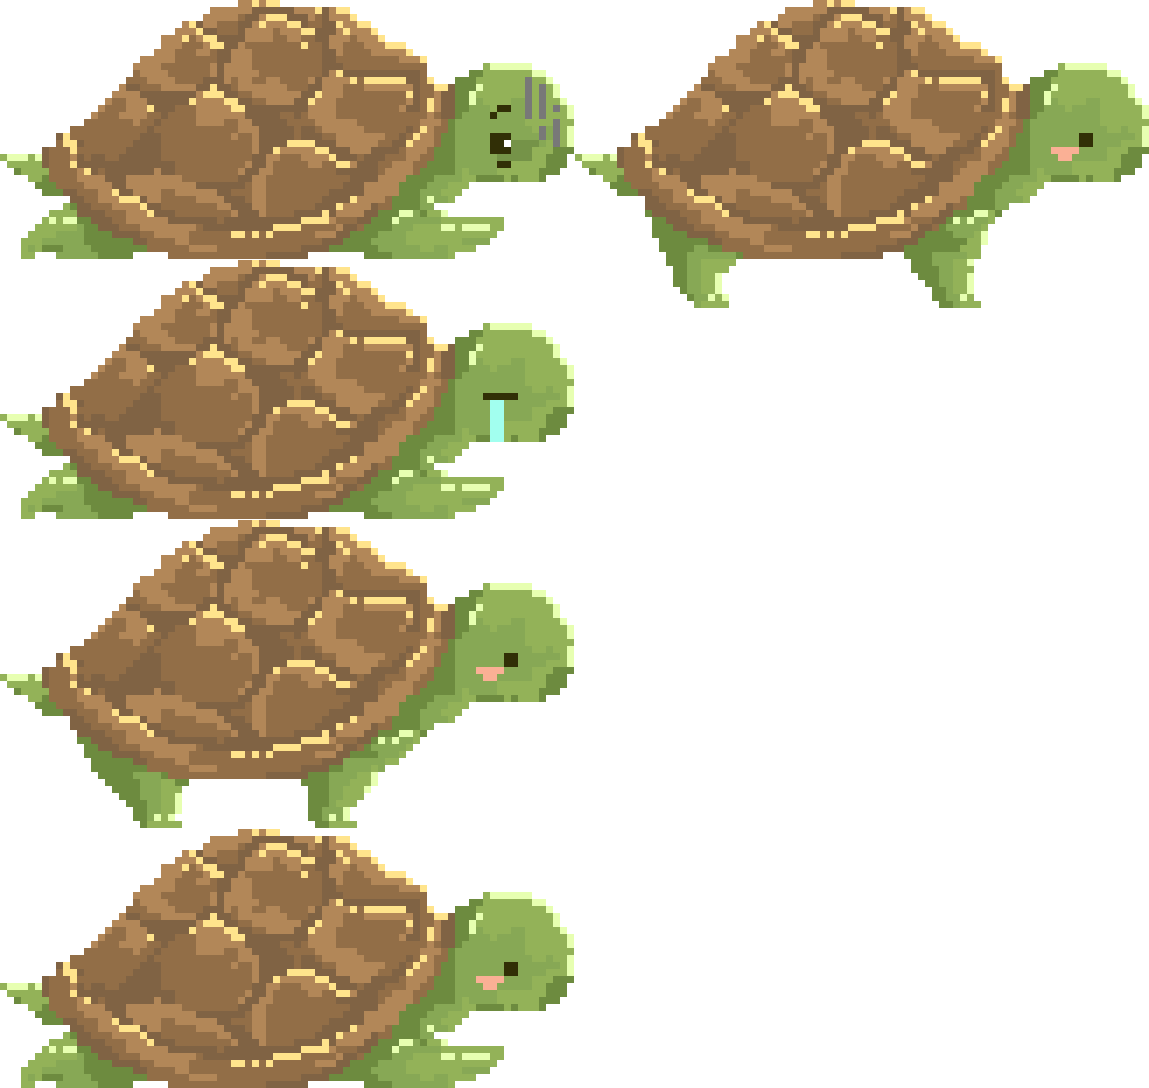
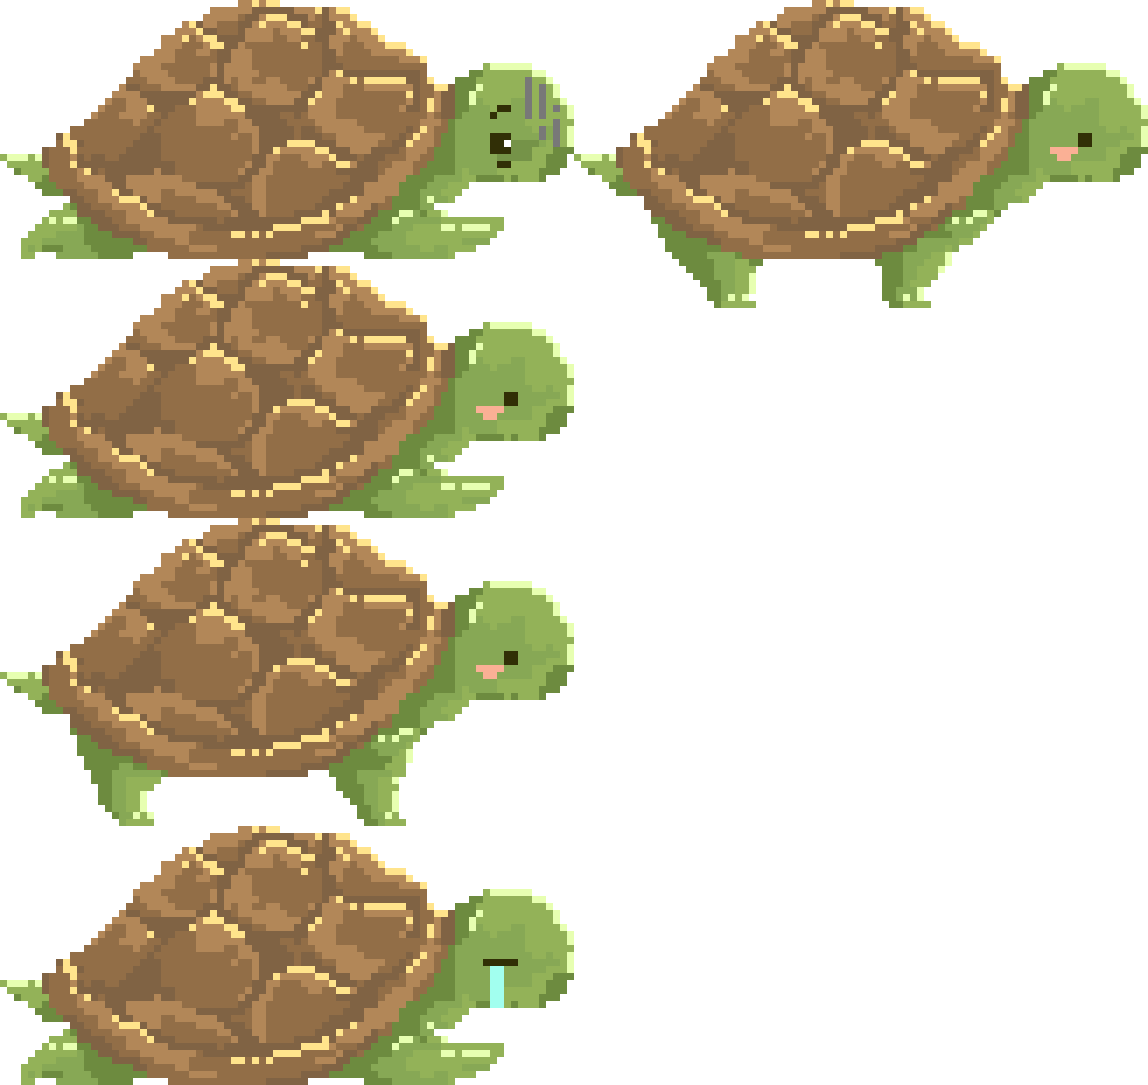
-added animations for harold

diff --git a/src/scenes/Play.js b/src/scenes/Play.js
@@ -28,7 +28,7 @@ class Play extends Phaser.Scene {
         this.load.audio('grow', './assets/grow.wav');
         this.load.audio('up', './assets/menuup.wav');
         this.load.audio('lettuce', './assets/lettuce.wav');
-        this.load.atlas('haroldanims', './assets/haroldsheet.png', './assets/haroldsheet.json');
+        this.load.atlas('haroldanims', './assets/haroldanims.png', './assets/haroldanims.json');
     }
 
 
@@ -61,12 +61,42 @@ class Play extends Phaser.Scene {
         //spaceships
         this.player = new Player(this, game.config.width / 4, game.config.height - borderPadding - borderUISize - 150, 'turtle', Phaser.AUTO, 5).setOrigin(0.5, 0.5);
         this.player.setScale(0.075);
-        // this.player.animations.add(
-        //     'walk',
-        //     Phaser.Animation.generateFrameNames('turtle_walk_', 1, 2),
-        //     5,
-        //     true
-        // );
+        this.anims.create({ 
+            key: 'walk', 
+            frames: this.anims.generateFrameNames('haroldanims', {      
+                prefix: 'turtle_walk_',
+                start: 1,
+                end: 2,
+                suffix: '',
+                zeroPad: 0 
+            }), 
+            frameRate: 30,
+            repeat: -1 
+        });
+        this.anims.create({
+            key: 'death',
+            defaultTextureKey: 'haroldanims',
+            frames: [
+                { frame: 'turtle_dead' }
+            ],
+            repeat: -1
+        });
+        this.anims.create({
+            key: 'slide',
+            defaultTextureKey: 'haroldanims',
+            frames: [
+                { frame: 'turtle_slide' }
+            ],
+            repeat: -1
+        });
+        this.anims.create({
+            key: 'hurt',
+            defaultTextureKey: 'haroldanims',
+            frames: [
+                { frame: 'turtle_hit' }
+            ],
+            repeat: -1
+        });
         
 
 
@@ -210,6 +240,10 @@ class Play extends Phaser.Scene {
                 this.speedUpgrade = 0;
                 this.eatUpgrade = 0;
                 this.sound.play('hurt');
+                this.player.anims.play('hurt', true);
+                this.clock = this.time.delayedCall(1500, () => {
+                    this.player.anims.play('walk', true);
+                }, null, this);
             }
 
             
@@ -223,8 +257,9 @@ class Play extends Phaser.Scene {
         this.updatePlatformSpeeds();
 
 
-
-
+        // this.player.anims.play('death', true);
+        // console.log('anims', this.anims.anims.entries);
+        this.player.anims.play('walk', true);
 
     }
 
@@ -349,9 +384,18 @@ class Play extends Phaser.Scene {
             if(this.invincibleframes > 0){
                 this.invincibleframes--;
             }
+            else{
+                if(keyDOWN.isDown){
+                    this.player.anims.play('slide', true);
+                }
+                else{
+                    this.player.anims.play('walk', true);
+                }
+            }
             this.hungerFill.scaleX = 128 * ((this.hunger/game.settings.maxHunger));
             this.distanceTravelled += this.speed;
             this.distanceText.text = "Distance Travelled - " + Math.round(this.distanceTravelled/1000,0);
+            
         }
 
         if(this.growth == 0 && this.distanceTravelled/1000 > 2000){
@@ -394,7 +438,7 @@ class Play extends Phaser.Scene {
             this.speed = 0;
             this.player.setGravityY(0);
             this.player.setVelocityY(0);
-
+            this.player.anims.play('death', true);
             let scoreConfig = {
                 fontFamily: 'Noto Sans',
             fontSize: '28px',
